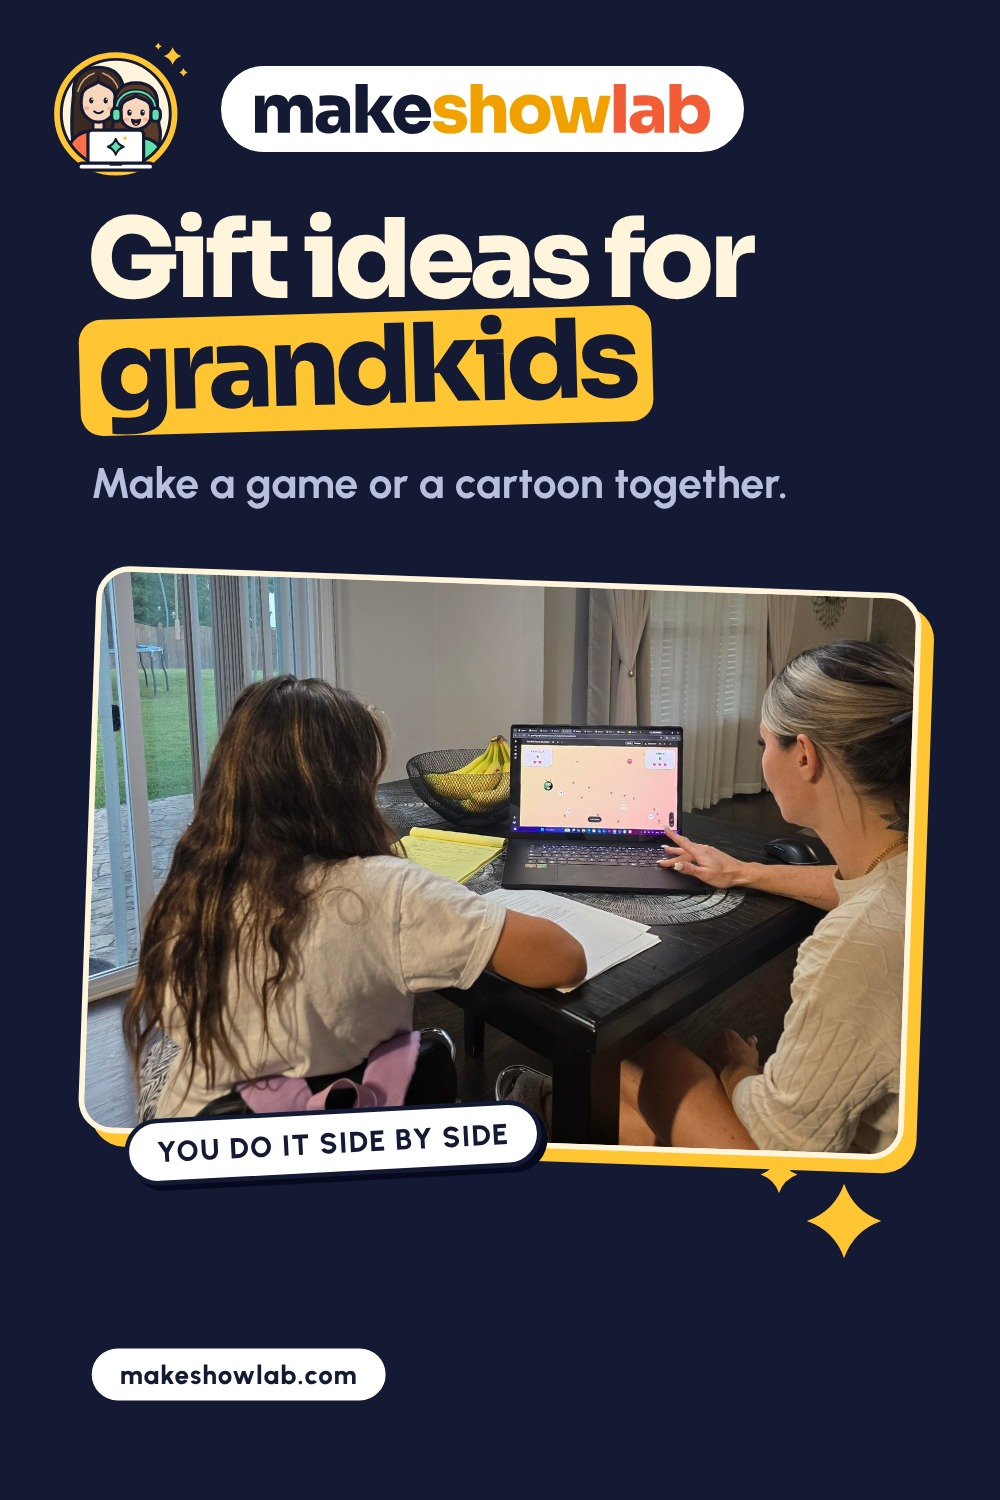
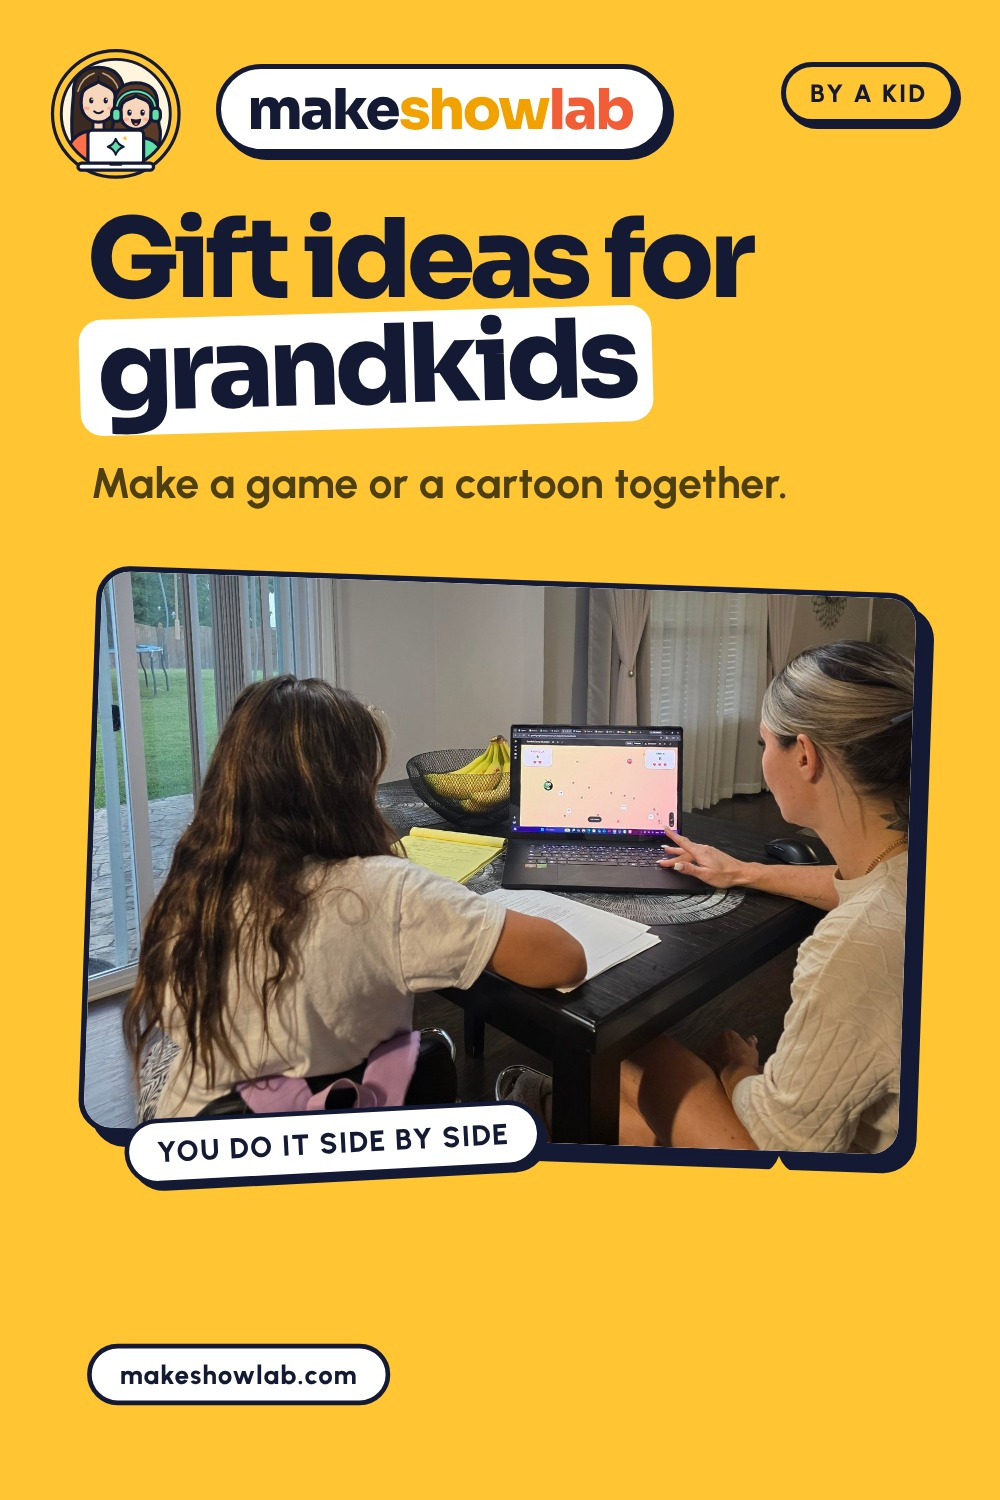
Pinterest: Instagram series frames on all pins, six new series pins (19-24), sixth board, boards how-to for the owner's helper
Claude-Session: https://claude.ai/code/session_01DtGyjPj8iBxY3GMZhcrbkr

diff --git a/social/concept/pins/BOARDS-HOWTO.md b/social/concept/pins/BOARDS-HOWTO.md
@@ -1,0 +1,86 @@
+# Как создать доски в Pinterest (для Сергея)
+
+Нужно создать **6 досок**. Без них пины в Metricool не поставить: при постановке пин привязывается к доске по её названию,
+и название должно совпасть **буква в букву**. Делается один раз, занимает минут десять.
+Аккаунт: бизнес-аккаунт Pinterest **nova0551** (он уже подключён к Metricool).
+
+## Как создать одну доску (повторить 6 раз)
+1. Зайти на pinterest.com под аккаунтом nova0551.
+2. Нажать на свой значок (справа вверху), открыть профиль, вкладка **Saved** («Сохранённое»).
+3. Нажать **+** («Создать») и выбрать **Board** («Доска»).
+4. В поле «Name» («Название») вставить название из списка ниже. Скопировать точно, с заглавными буквами и без лишних пробелов.
+5. Переключатель **«Keep this board secret»** («Сделать секретной») оставить **выключенным**: доска должна быть открытой, иначе пины на ней не попадут в поиск.
+6. Нажать **Create** («Создать»).
+7. Открыть созданную доску, нажать **три точки (...)** → **Edit board** («Изменить доску») и вставить в поле **Description** («Описание») текст из списка ниже. Сохранить.
+8. Пины и обложки пока не добавлять: пины мы поставим через Metricool.
+
+Если интерфейс выглядит немного иначе, смысл тот же: создать открытую доску с этим названием и описанием.
+
+## Шесть досок (название и описание копировать как есть)
+
+### 1. AI Activities for Kids
+
+Описание:
+
+```
+AI activities and projects for kids ages 6 to 14: make a cartoon, a game, a song or a sticker pack with a parent, no coding. Ideas from Make Show Lab.
+```
+
+Пины на эту доску: 5, 6, 7, 10, 12, 24
+
+### 2. AI Safety for Kids
+
+Описание:
+
+```
+AI safety rules for kids and families: house rules for AI tools, what never to share, how to spot a fake. Simple enough for the fridge.
+```
+
+Пины на эту доску: 3, 4, 13, 14, 15, 22
+
+### 3. Screen Time Ideas for Kids
+
+Описание:
+
+```
+Creative screen time ideas for kids: screens they make on instead of scroll on. Short projects a parent and child finish together.
+```
+
+Пины на эту доску: 9
+
+### 4. Non-Toy Gift Ideas for Kids
+
+Описание:
+
+```
+Non-toy gift ideas for kids and grandkids: gifts you do together. A creative AI course for ages 6 to 14 that ends with things they made.
+```
+
+Пины на эту доску: 1, 2, 16, 17, 18, 23
+
+### 5. How AI Works for Kids
+
+Описание:
+
+```
+How AI works, explained for kids and parents: why AI draws six fingers, how it makes a picture from words, why it sounds sure when it is wrong. Short answers a parent can say out loud.
+```
+
+Пины на эту доску: 19, 20, 21
+
+### 6. Homeschool Technology Ideas
+
+Описание:
+
+```
+Homeschool technology and AI lesson ideas for ages 6 to 14: short lessons that end with a finished project, done side by side with a parent.
+```
+
+Пины на эту доску: 8, 11
+
+## Когда закончишь
+Напиши владельцу: «6 досок созданы». Он скажет мне, и я поставлю первые пины в Metricool черновиками.
+
+## Не нужно (можно позже)
+- Подтверждать сайт makeshowlab.com в настройках Pinterest (Settings → Claimed accounts). Это даёт «богатые пины» и немного доверия, но для старта не обязательно: для этого на сайте нужно добавить метатег.
+- Заводить больше досок. Шесть закрывают все пины, которые у нас есть. Новые доски добавим, если появятся новые темы.

diff --git a/social/desks/pinterest.md b/social/desks/pinterest.md
@@ -7,8 +7,10 @@
 
 ## Что готово
 - 12 пинов 1000×1500 с заголовками, описаниями и alt-текстом
-- 5 досок с названиями и описаниями (`pins/boards.md`)
+- 6 досок с названиями и описаниями (`pins/boards.md`); инструкция, как их создать, для Сергея: `pins/BOARDS-HOWTO.md`
 - текст профиля
+- третья партия (14.11), 6 пинов по сериям Instagram (`social/concept/SERIES.md`: вопрос или обещание + одна картинка, которая объясняет): 19 «Why does AI draw six fingers», 20 «How AI draws pictures for kids», 21 «Why AI sounds sure when wrong» (доска How AI Works for Kids), 22 «Spot a fake AI picture», 23 «What grandmas made with grandkids», 24 «Kid made a cartoon with AI»
+- все 24 пина теперь в рамке серий Instagram: цвет серии (Ask AI и Safe AI коралловый, By a kid жёлтый, How it works тёмно-синий, Free lesson мятный) и плашка серии сверху справа
 - на всех пинах сверху крупный знак и надпись makeshowlab на белой плашке (по просьбе владельца); весь макет ужат под эту полосу
 - лист со всеми пинами: `pins/_all-pins.jpg`
 - вторая партия (пины-польза), 6 пинов, ждёт утверждения:
@@ -38,6 +40,9 @@ node social/concept/pins.mjs   # проверяет тексты и рисует
 ```
 
 ## Что ждёт решения владельца
+- Сергей создаёт 6 досок по `pins/BOARDS-HOWTO.md`; без них в Metricool пины не поставить
+- пины-объяснялки (19–22) ведут на лендинг: статей на сайте под них нет; пока ссылка идёт на раздел #how или #safe
+- пин 24: «about 20 minutes» взято из ответа владельца 13.11 (desks/instagram.md), в facts.md этой цифры нет
 - Metricool: Pinterest подключается и на бесплатном тарифе; лимит постов в месяц общий на бренд (по разным источникам 20 или 50), его делят все площадки
 - страницу-превью пора обновить (пины перерисованы): это общий диалог
 - утвердить вторую партию (пины 13–18)
@@ -57,3 +62,4 @@ node social/concept/pins.mjs   # проверяет тексты и рисует
   решает вопрос родителя (памятка, список, шпаргалка), курс только в ссылке. Владелец выбрал памятки и подарки.
 - 11.11.2026: собрана вторая партия, пины 13–18 (3 памятки, 3 подарка к Рождеству), ждёт утверждения.
 - 11.11.2026: на все 18 пинов добавлен крупный логотип с надписью; собран общий лист всех пинов.
+- 14.11.2026: доска №6 «How AI Works for Kids»; пины перекрашены в рамки серий Instagram; шесть новых пинов (19–24); инструкция по созданию досок для Сергея. Metricool: аккаунт nova0551 подключён, пинов в очереди нет.

diff --git a/social/concept/pins/what-grandmas-made-with-grandkids.md b/social/concept/pins/what-grandmas-made-with-grandkids.md
@@ -1,0 +1,25 @@
+---
+pin: 23
+network: pinterest
+image: what-grandmas-made-with-grandkids.jpg (1000x1500)
+search_phrase: "what grandmas made with grandkids" (on the picture and first in the title; check it in Pinterest search suggestions)
+board: "Non-Toy Gift Ideas for Kids"
+link: https://www.makeshowlab.com/?utm_source=pinterest&utm_medium=social&utm_campaign=what-grandmas-made-with-grandkids#families
+variant: четыре портрета
+ai_disclosure: no
+title_length: 81 of 100
+description_length: 163
+---
+## Title
+
+What Grandmas Made With Grandkids | A Cartoon, a Song, a Gift, a Game | Ages 6-14
+
+## Description
+
+What grandmas made with grandkids: a cartoon, a song, a gift and a game, all in an AI course done side by side. A gift idea that is time together, not another toy.
+
+Margaret, Susan, Linda and Patricia are early-access testers. They received the course free and shared honest feedback.
+
+## Alt text
+
+Yellow pin that reads "What grandmas made with grandkids" with four round portraits of grandmothers and what each made: Margaret a cartoon, Susan a song, Linda a gift, Patricia a game.

diff --git a/social/concept/pins/boards.md b/social/concept/pins/boards.md
@@ -6,13 +6,13 @@ Create these five boards by hand (a scheduler cannot). The name carries the sear
 
 AI activities and projects for kids ages 6 to 14: make a cartoon, a game, a song or a sticker pack with a parent, no coding. Ideas from Make Show Lab.
 
-Pins: 5, 6, 7, 10, 12
+Pins: 5, 6, 7, 10, 12, 24
 
 ## AI Safety for Kids
 
 AI safety rules for kids and families: house rules for AI tools, what never to share, how to spot a fake. Simple enough for the fridge.
 
-Pins: 3, 4, 13, 14, 15
+Pins: 3, 4, 13, 14, 15, 22
 
 ## Screen Time Ideas for Kids
 
@@ -24,7 +24,13 @@ Pins: 9
 
 Non-toy gift ideas for kids and grandkids: gifts you do together. A creative AI course for ages 6 to 14 that ends with things they made.
 
-Pins: 1, 2, 16, 17, 18
+Pins: 1, 2, 16, 17, 18, 23
+
+## How AI Works for Kids
+
+How AI works, explained for kids and parents: why AI draws six fingers, how it makes a picture from words, why it sounds sure when it is wrong. Short answers a parent can say out loud.
+
+Pins: 19, 20, 21
 
 ## Homeschool Technology Ideas
 

diff --git a/social/concept/pins/how-ai-draws-pictures-for-kids.md b/social/concept/pins/how-ai-draws-pictures-for-kids.md
@@ -1,0 +1,23 @@
+---
+pin: 20
+network: pinterest
+image: how-ai-draws-pictures-for-kids.jpg (1000x1500)
+search_phrase: "how AI draws pictures for kids" (on the picture and first in the title; check it in Pinterest search suggestions)
+board: "How AI Works for Kids"
+link: https://www.makeshowlab.com/?utm_source=pinterest&utm_medium=social&utm_campaign=how-ai-draws-pictures-for-kids#how
+variant: один визуал
+ai_disclosure: yes, the picture shows AI-made work: switch the AI label on
+title_length: 92 of 100
+description_length: 165
+---
+## Title
+
+How AI Draws Pictures for Kids | It Starts With TV Static, Not a Blank Page | Easy Explainer
+
+## Description
+
+How AI draws pictures for kids, in plain words: it starts from random noise like TV static, then cleans it up a little at a time until the picture matches the words.
+
+## Alt text
+
+Navy pin that reads "How AI draws pictures for kids" with four frames of one rainbow cartoon, from grey static to a clear picture: static, cleaning, almost, done.

diff --git a/social/concept/pins/spot-a-fake-ai-picture.md b/social/concept/pins/spot-a-fake-ai-picture.md
@@ -1,0 +1,23 @@
+---
+pin: 22
+network: pinterest
+image: spot-a-fake-ai-picture.jpg (1000x1500)
+search_phrase: "spot a fake AI picture" (on the picture and first in the title; check it in Pinterest search suggestions)
+board: "AI Safety for Kids"
+link: https://www.makeshowlab.com/?utm_source=pinterest&utm_medium=social&utm_campaign=spot-a-fake-ai-picture#safe
+variant: четыре проверки
+ai_disclosure: yes, the picture shows AI-made work: switch the AI label on
+title_length: 72 of 100
+description_length: 156
+---
+## Title
+
+Spot a Fake AI Picture | 4 Checks to Teach Your Kid | Kids and AI Safety
+
+## Description
+
+Spot a fake AI picture with your kid: check hands and fingers, letters on signs, shadows that point different ways, and edges that melt into the background.
+
+## Alt text
+
+Coral pin that reads "Spot a fake AI picture" with a glowing rainbow cartoon marked with four numbered circles, and a list: hands, letters on signs, shadows, edges.

diff --git a/social/concept/pins/why-ai-sounds-sure-when-wrong.md b/social/concept/pins/why-ai-sounds-sure-when-wrong.md
@@ -1,0 +1,23 @@
+---
+pin: 21
+network: pinterest
+image: why-ai-sounds-sure-when-wrong.jpg (1000x1500)
+search_phrase: "why AI sounds sure when wrong" (on the picture and first in the title; check it in Pinterest search suggestions)
+board: "How AI Works for Kids"
+link: https://www.makeshowlab.com/?utm_source=pinterest&utm_medium=social&utm_campaign=why-ai-sounds-sure-when-wrong#how
+variant: чат
+ai_disclosure: no
+title_length: 87 of 100
+description_length: 164
+---
+## Title
+
+Why AI Sounds Sure When Wrong | It Guesses the Next Word, It Does Not Look It Up | Kids
+
+## Description
+
+Why AI sounds sure when wrong: a chatbot writes the most likely next words, and confident words are very likely. Teach your kid one habit: sounds sure, still check.
+
+## Alt text
+
+Coral pin that reads "Why AI sounds sure when wrong" with a chat: how many legs does a spider have, the AI says 6 and that it is 100 percent sure, and a stamp says wrong, it is 8.

diff --git a/social/concept/pins/kid-made-a-cartoon-with-ai.md b/social/concept/pins/kid-made-a-cartoon-with-ai.md
@@ -1,0 +1,23 @@
+---
+pin: 24
+network: pinterest
+image: kid-made-a-cartoon-with-ai.jpg (1000x1500)
+search_phrase: "kid made a cartoon with AI" (on the picture and first in the title; check it in Pinterest search suggestions)
+board: "AI Activities for Kids"
+link: https://www.makeshowlab.com/?utm_source=pinterest&utm_medium=social&utm_campaign=kid-made-a-cartoon-with-ai#works
+variant: шаги
+ai_disclosure: yes, the picture shows AI-made work: switch the AI label on
+title_length: 79 of 100
+description_length: 177
+---
+## Title
+
+Kid Made a Cartoon With AI | 4 Steps a 10-Year-Old Followed | Easy Kids Project
+
+## Description
+
+A kid made a cartoon with AI: a 10-year-old told it her story and characters, checked every scene and fixed the ones that came out wrong. About 20 minutes, a parent next to her.
+
+## Alt text
+
+Yellow pin that reads "Kid made a cartoon with AI" with a cartoon cat and four steps: idea, characters, scenes, voice.

diff --git a/social/concept/pins/why-does-ai-draw-six-fingers.md b/social/concept/pins/why-does-ai-draw-six-fingers.md
@@ -1,0 +1,23 @@
+---
+pin: 19
+network: pinterest
+image: why-does-ai-draw-six-fingers.jpg (1000x1500)
+search_phrase: "why does AI draw six fingers" (on the picture and first in the title; check it in Pinterest search suggestions)
+board: "How AI Works for Kids"
+link: https://www.makeshowlab.com/?utm_source=pinterest&utm_medium=social&utm_campaign=why-does-ai-draw-six-fingers#how
+variant: один визуал
+ai_disclosure: no
+title_length: 88 of 100
+description_length: 175
+---
+## Title
+
+Why Does AI Draw Six Fingers | It Learned How Hands Look, Not How to Count | Kids and AI
+
+## Description
+
+Why does AI draw six fingers? It learned what hands look like from millions of pictures, where hands are half hidden. It copies the look and never counts. Teach kids to check.
+
+## Alt text
+
+Coral pin that reads "Why does AI draw six fingers?" with a drawn hand: five fingers in cream and a sixth in yellow, numbered one to six.
